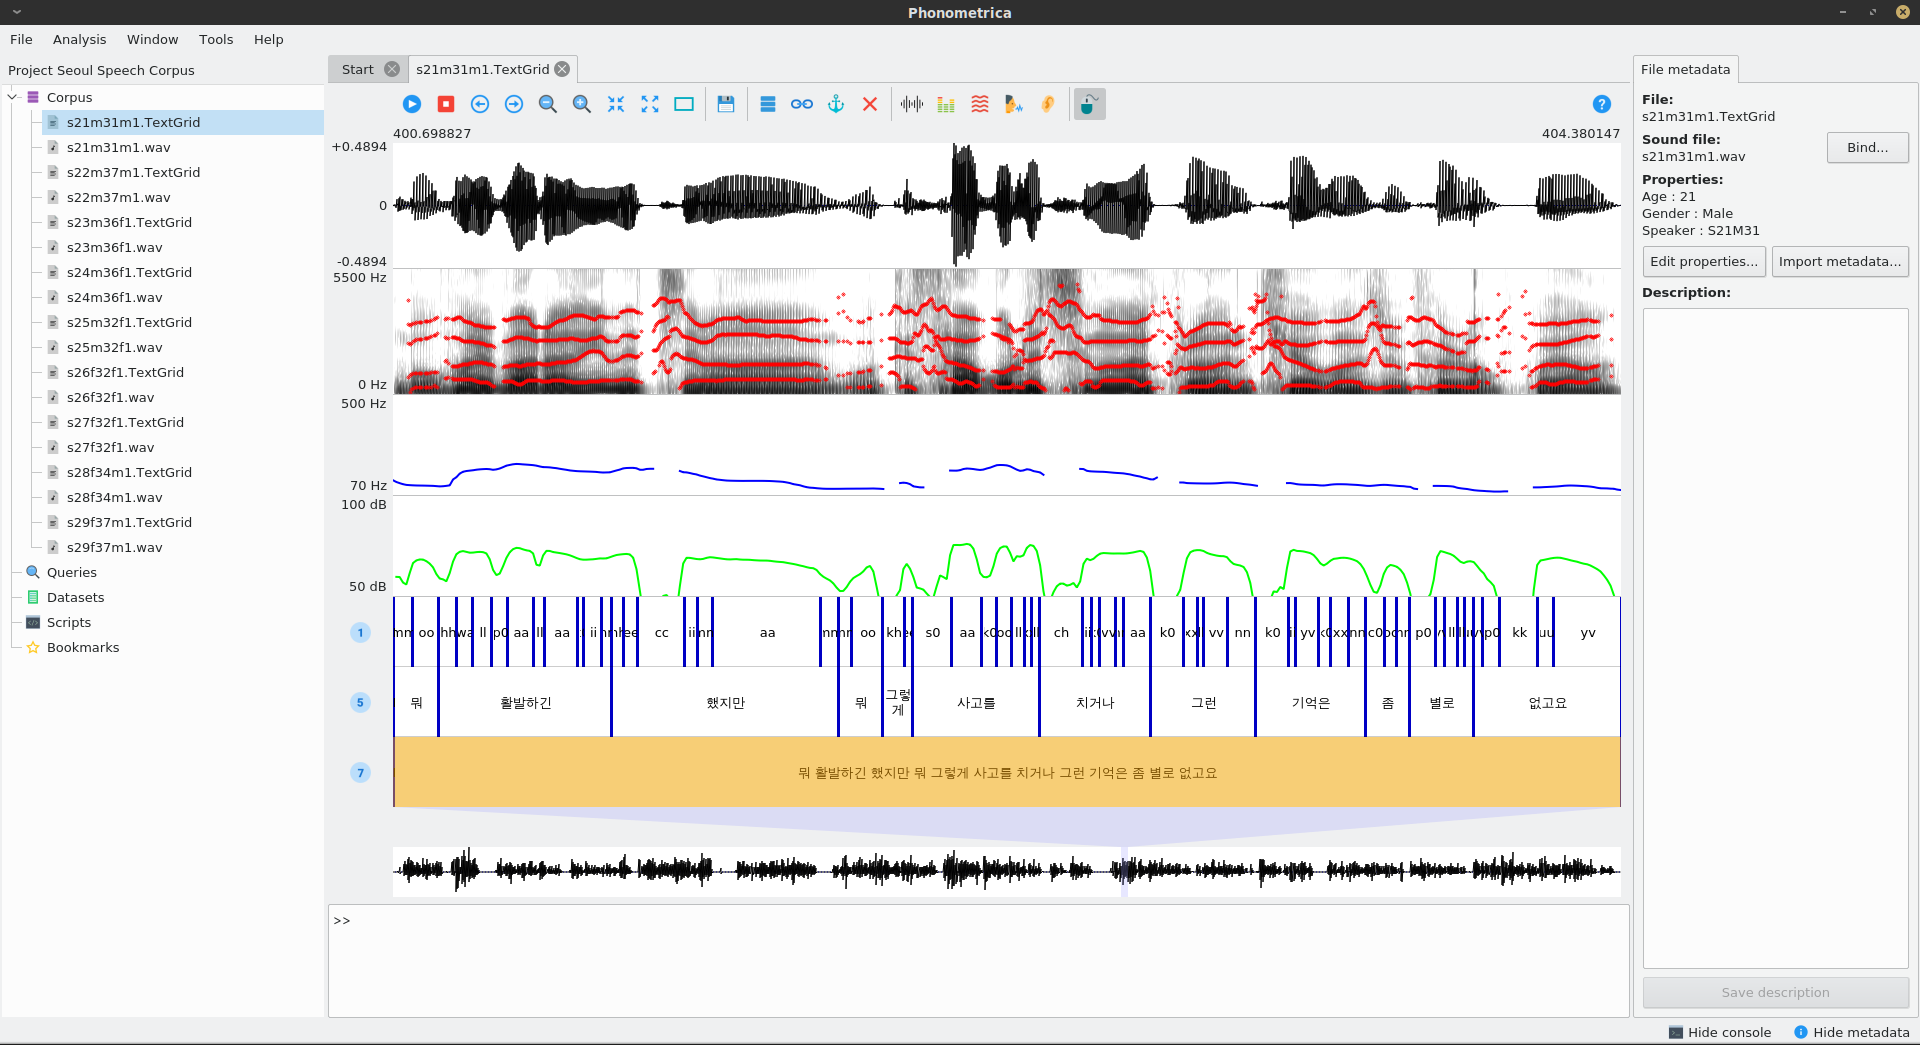
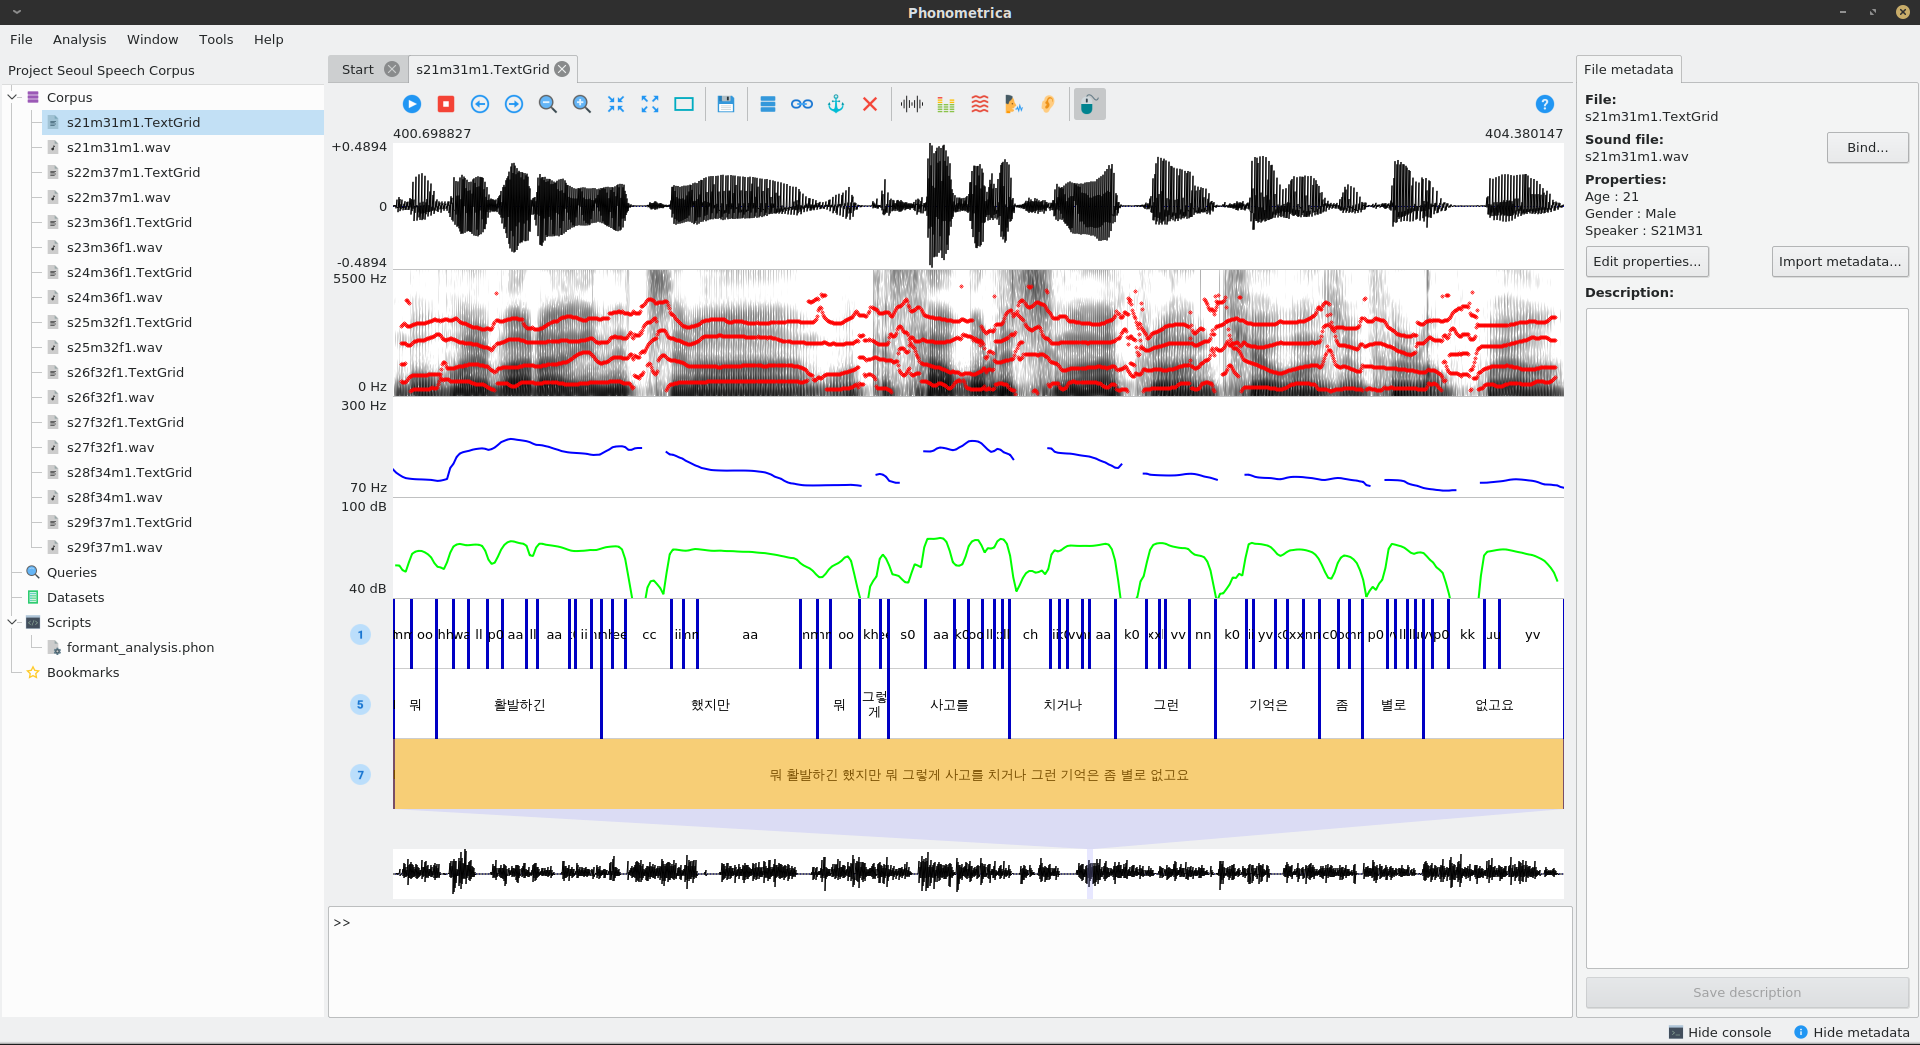
use Hann window for LPC analysis

diff --git a/html/index.html b/html/index.html
@@ -8,7 +8,7 @@
   <head>
     <meta http-equiv="X-UA-Compatible" content="IE=Edge" />
     <meta http-equiv="Content-Type" content="text/html; charset=utf-8" />
-    <title>Phonometrica &#8212; Phonometrica 0.6.0 documentation</title>
+    <title>Phonometrica &#8212; Phonometrica 0.6.1 documentation</title>
     <link rel="stylesheet" href="_static/yeen.css" type="text/css" />
     <link rel="stylesheet" href="_static/pygments.css" type="text/css" />
     <script type="text/javascript" id="documentation_options" data-url_root="./" src="_static/documentation_options.js"></script>
@@ -30,7 +30,7 @@
         <li class="right" >
           <a href="intro/install.html" title="Installation"
              accesskey="N">next</a> |</li>
-        <li class="nav-item nav-item-0"><a href="#">Phonometrica 0.6.0 documentation</a> &#187;</li> 
+        <li class="nav-item nav-item-0"><a href="#">Phonometrica 0.6.1 documentation</a> &#187;</li> 
       </ul>
     </div>
       <div class="sphinxsidebar" role="navigation" aria-label="main navigation">
@@ -139,7 +139,7 @@ The latest version can be downloaded from <a class="reference external" href="ht
 <table class="docutils citation" frame="void" id="eyc2019" rules="none">
 <colgroup><col class="label" /><col /></colgroup>
 <tbody valign="top">
-<tr><td class="label"><a class="fn-backref" href="#id1">[EYC2019]</a></td><td>Eychenne, Julien &amp; Léa Courdès-Murphy (2019). Phonometrica: an open platform for speech annotation and analysis [Computer program]. Version 0.6.0, retrieved 27 October 2019 from <a class="reference external" href="http://www.phonometrica-ling.org">http://www.phonometrica-ling.org</a></td></tr>
+<tr><td class="label"><a class="fn-backref" href="#id1">[EYC2019]</a></td><td>Eychenne, Julien &amp; Léa Courdès-Murphy (2019). Phonometrica: an open platform for speech annotation and analysis [Computer program]. Version 0.6.1, retrieved 27 October 2019 from <a class="reference external" href="http://www.phonometrica-ling.org">http://www.phonometrica-ling.org</a></td></tr>
 </tbody>
 </table>
 </div>
@@ -160,7 +160,7 @@ The latest version can be downloaded from <a class="reference external" href="ht
         <li class="right" >
           <a href="intro/install.html" title="Installation"
              >next</a> |</li>
-        <li class="nav-item nav-item-0"><a href="#">Phonometrica 0.6.0 documentation</a> &#187;</li> 
+        <li class="nav-item nav-item-0"><a href="#">Phonometrica 0.6.1 documentation</a> &#187;</li> 
       </ul>
     </div>
     

diff --git a/html/scripting/tutorial/metaobject.html b/html/scripting/tutorial/metaobject.html
@@ -8,7 +8,7 @@
   <head>
     <meta http-equiv="X-UA-Compatible" content="IE=Edge" />
     <meta http-equiv="Content-Type" content="text/html; charset=utf-8" />
-    <title>Meta-objects and inheritance &#8212; Phonometrica 0.6.0 documentation</title>
+    <title>Meta-objects and inheritance &#8212; Phonometrica 0.6.1 documentation</title>
     <link rel="stylesheet" href="../../_static/yeen.css" type="text/css" />
     <link rel="stylesheet" href="../../_static/pygments.css" type="text/css" />
     <script type="text/javascript" id="documentation_options" data-url_root="../../" src="../../_static/documentation_options.js"></script>
@@ -34,7 +34,7 @@
         <li class="right" >
           <a href="getting_started.html" title="Getting started"
              accesskey="P">previous</a> |</li>
-        <li class="nav-item nav-item-0"><a href="../../index.html">Phonometrica 0.6.0 documentation</a> &#187;</li>
+        <li class="nav-item nav-item-0"><a href="../../index.html">Phonometrica 0.6.1 documentation</a> &#187;</li>
           <li class="nav-item nav-item-1"><a href="../index.html" accesskey="U">Scripting</a> &#187;</li> 
       </ul>
     </div>
@@ -91,7 +91,7 @@ shared by a set of objects of the same type.</p>
         <li class="right" >
           <a href="getting_started.html" title="Getting started"
              >previous</a> |</li>
-        <li class="nav-item nav-item-0"><a href="../../index.html">Phonometrica 0.6.0 documentation</a> &#187;</li>
+        <li class="nav-item nav-item-0"><a href="../../index.html">Phonometrica 0.6.1 documentation</a> &#187;</li>
           <li class="nav-item nav-item-1"><a href="../index.html" >Scripting</a> &#187;</li> 
       </ul>
     </div>

diff --git a/html/scripting/tutorial/advanced.html b/html/scripting/tutorial/advanced.html
@@ -8,7 +8,7 @@
   <head>
     <meta http-equiv="X-UA-Compatible" content="IE=Edge" />
     <meta http-equiv="Content-Type" content="text/html; charset=utf-8" />
-    <title>Advanced notions &#8212; Phonometrica 0.6.0 documentation</title>
+    <title>Advanced notions &#8212; Phonometrica 0.6.1 documentation</title>
     <link rel="stylesheet" href="../../_static/yeen.css" type="text/css" />
     <link rel="stylesheet" href="../../_static/pygments.css" type="text/css" />
     <script type="text/javascript" id="documentation_options" data-url_root="../../" src="../../_static/documentation_options.js"></script>
@@ -34,7 +34,7 @@
         <li class="right" >
           <a href="user_dialogs.html" title="User dialogs"
              accesskey="P">previous</a> |</li>
-        <li class="nav-item nav-item-0"><a href="../../index.html">Phonometrica 0.6.0 documentation</a> &#187;</li>
+        <li class="nav-item nav-item-0"><a href="../../index.html">Phonometrica 0.6.1 documentation</a> &#187;</li>
           <li class="nav-item nav-item-1"><a href="../index.html" accesskey="U">Scripting</a> &#187;</li> 
       </ul>
     </div>
@@ -156,7 +156,7 @@ value of <code class="docutils literal notranslate"><span class="pre">c</span></
         <li class="right" >
           <a href="user_dialogs.html" title="User dialogs"
              >previous</a> |</li>
-        <li class="nav-item nav-item-0"><a href="../../index.html">Phonometrica 0.6.0 documentation</a> &#187;</li>
+        <li class="nav-item nav-item-0"><a href="../../index.html">Phonometrica 0.6.1 documentation</a> &#187;</li>
           <li class="nav-item nav-item-1"><a href="../index.html" >Scripting</a> &#187;</li> 
       </ul>
     </div>

diff --git a/html/scripting/api/array.html b/html/scripting/api/array.html
@@ -8,7 +8,7 @@
   <head>
     <meta http-equiv="X-UA-Compatible" content="IE=Edge" />
     <meta http-equiv="Content-Type" content="text/html; charset=utf-8" />
-    <title>Numeric arrays &#8212; Phonometrica 0.6.0 documentation</title>
+    <title>Numeric arrays &#8212; Phonometrica 0.6.1 documentation</title>
     <link rel="stylesheet" href="../../_static/yeen.css" type="text/css" />
     <link rel="stylesheet" href="../../_static/pygments.css" type="text/css" />
     <script type="text/javascript" id="documentation_options" data-url_root="../../" src="../../_static/documentation_options.js"></script>
@@ -34,7 +34,7 @@
         <li class="right" >
           <a href="annotation.html" title="Annotations"
              accesskey="P">previous</a> |</li>
-        <li class="nav-item nav-item-0"><a href="../../index.html">Phonometrica 0.6.0 documentation</a> &#187;</li>
+        <li class="nav-item nav-item-0"><a href="../../index.html">Phonometrica 0.6.1 documentation</a> &#187;</li>
           <li class="nav-item nav-item-1"><a href="../index.html" accesskey="U">Scripting</a> &#187;</li> 
       </ul>
     </div>
@@ -148,7 +148,7 @@ where <em>i</em> represents the <em>i*th row and *j</em> represents the <em>j*th
         <li class="right" >
           <a href="annotation.html" title="Annotations"
              >previous</a> |</li>
-        <li class="nav-item nav-item-0"><a href="../../index.html">Phonometrica 0.6.0 documentation</a> &#187;</li>
+        <li class="nav-item nav-item-0"><a href="../../index.html">Phonometrica 0.6.1 documentation</a> &#187;</li>
           <li class="nav-item nav-item-1"><a href="../index.html" >Scripting</a> &#187;</li> 
       </ul>
     </div>

diff --git a/html/scripting/tutorial/getting_started.html b/html/scripting/tutorial/getting_started.html
@@ -8,7 +8,7 @@
   <head>
     <meta http-equiv="X-UA-Compatible" content="IE=Edge" />
     <meta http-equiv="Content-Type" content="text/html; charset=utf-8" />
-    <title>Getting started &#8212; Phonometrica 0.6.0 documentation</title>
+    <title>Getting started &#8212; Phonometrica 0.6.1 documentation</title>
     <link rel="stylesheet" href="../../_static/yeen.css" type="text/css" />
     <link rel="stylesheet" href="../../_static/pygments.css" type="text/css" />
     <script type="text/javascript" id="documentation_options" data-url_root="../../" src="../../_static/documentation_options.js"></script>
@@ -34,7 +34,7 @@
         <li class="right" >
           <a href="../index.html" title="Scripting"
              accesskey="P">previous</a> |</li>
-        <li class="nav-item nav-item-0"><a href="../../index.html">Phonometrica 0.6.0 documentation</a> &#187;</li>
+        <li class="nav-item nav-item-0"><a href="../../index.html">Phonometrica 0.6.1 documentation</a> &#187;</li>
           <li class="nav-item nav-item-1"><a href="../index.html" accesskey="U">Scripting</a> &#187;</li> 
       </ul>
     </div>
@@ -395,7 +395,7 @@ an optional error message. It will trigger an error with the error message if th
         <li class="right" >
           <a href="../index.html" title="Scripting"
              >previous</a> |</li>
-        <li class="nav-item nav-item-0"><a href="../../index.html">Phonometrica 0.6.0 documentation</a> &#187;</li>
+        <li class="nav-item nav-item-0"><a href="../../index.html">Phonometrica 0.6.1 documentation</a> &#187;</li>
           <li class="nav-item nav-item-1"><a href="../index.html" >Scripting</a> &#187;</li> 
       </ul>
     </div>

diff --git a/html/scripting/tutorial/user_dialogs.html b/html/scripting/tutorial/user_dialogs.html
@@ -8,7 +8,7 @@
   <head>
     <meta http-equiv="X-UA-Compatible" content="IE=Edge" />
     <meta http-equiv="Content-Type" content="text/html; charset=utf-8" />
-    <title>User dialogs &#8212; Phonometrica 0.6.0 documentation</title>
+    <title>User dialogs &#8212; Phonometrica 0.6.1 documentation</title>
     <link rel="stylesheet" href="../../_static/yeen.css" type="text/css" />
     <link rel="stylesheet" href="../../_static/pygments.css" type="text/css" />
     <script type="text/javascript" id="documentation_options" data-url_root="../../" src="../../_static/documentation_options.js"></script>
@@ -34,7 +34,7 @@
         <li class="right" >
           <a href="metaobject.html" title="Meta-objects and inheritance"
              accesskey="P">previous</a> |</li>
-        <li class="nav-item nav-item-0"><a href="../../index.html">Phonometrica 0.6.0 documentation</a> &#187;</li>
+        <li class="nav-item nav-item-0"><a href="../../index.html">Phonometrica 0.6.1 documentation</a> &#187;</li>
           <li class="nav-item nav-item-1"><a href="../index.html" accesskey="U">Scripting</a> &#187;</li> 
       </ul>
     </div>
@@ -387,7 +387,7 @@ contain any space.</p>
         <li class="right" >
           <a href="metaobject.html" title="Meta-objects and inheritance"
              >previous</a> |</li>
-        <li class="nav-item nav-item-0"><a href="../../index.html">Phonometrica 0.6.0 documentation</a> &#187;</li>
+        <li class="nav-item nav-item-0"><a href="../../index.html">Phonometrica 0.6.1 documentation</a> &#187;</li>
           <li class="nav-item nav-item-1"><a href="../index.html" >Scripting</a> &#187;</li> 
       </ul>
     </div>

diff --git a/html/scripting/api/annotation.html b/html/scripting/api/annotation.html
@@ -8,7 +8,7 @@
   <head>
     <meta http-equiv="X-UA-Compatible" content="IE=Edge" />
     <meta http-equiv="Content-Type" content="text/html; charset=utf-8" />
-    <title>Annotations &#8212; Phonometrica 0.6.0 documentation</title>
+    <title>Annotations &#8212; Phonometrica 0.6.1 documentation</title>
     <link rel="stylesheet" href="../../_static/yeen.css" type="text/css" />
     <link rel="stylesheet" href="../../_static/pygments.css" type="text/css" />
     <script type="text/javascript" id="documentation_options" data-url_root="../../" src="../../_static/documentation_options.js"></script>
@@ -34,7 +34,7 @@
         <li class="right" >
           <a href="../tutorial/advanced.html" title="Advanced notions"
              accesskey="P">previous</a> |</li>
-        <li class="nav-item nav-item-0"><a href="../../index.html">Phonometrica 0.6.0 documentation</a> &#187;</li>
+        <li class="nav-item nav-item-0"><a href="../../index.html">Phonometrica 0.6.1 documentation</a> &#187;</li>
           <li class="nav-item nav-item-1"><a href="../index.html" accesskey="U">Scripting</a> &#187;</li> 
       </ul>
     </div>
@@ -236,7 +236,7 @@ its start time.</p>
         <li class="right" >
           <a href="../tutorial/advanced.html" title="Advanced notions"
              >previous</a> |</li>
-        <li class="nav-item nav-item-0"><a href="../../index.html">Phonometrica 0.6.0 documentation</a> &#187;</li>
+        <li class="nav-item nav-item-0"><a href="../../index.html">Phonometrica 0.6.1 documentation</a> &#187;</li>
           <li class="nav-item nav-item-1"><a href="../index.html" >Scripting</a> &#187;</li> 
       </ul>
     </div>

diff --git a/html/scripting/api/file.html b/html/scripting/api/file.html
@@ -8,7 +8,7 @@
   <head>
     <meta http-equiv="X-UA-Compatible" content="IE=Edge" />
     <meta http-equiv="Content-Type" content="text/html; charset=utf-8" />
-    <title>File manipulation &#8212; Phonometrica 0.6.0 documentation</title>
+    <title>File manipulation &#8212; Phonometrica 0.6.1 documentation</title>
     <link rel="stylesheet" href="../../_static/yeen.css" type="text/css" />
     <link rel="stylesheet" href="../../_static/pygments.css" type="text/css" />
     <script type="text/javascript" id="documentation_options" data-url_root="../../" src="../../_static/documentation_options.js"></script>
@@ -34,7 +34,7 @@
         <li class="right" >
           <a href="event.html" title="Event handling"
              accesskey="P">previous</a> |</li>
-        <li class="nav-item nav-item-0"><a href="../../index.html">Phonometrica 0.6.0 documentation</a> &#187;</li>
+        <li class="nav-item nav-item-0"><a href="../../index.html">Phonometrica 0.6.1 documentation</a> &#187;</li>
           <li class="nav-item nav-item-1"><a href="../index.html" accesskey="U">Scripting</a> &#187;</li> 
       </ul>
     </div>
@@ -215,7 +215,7 @@ must be one of the following strings:</p>
         <li class="right" >
           <a href="event.html" title="Event handling"
              >previous</a> |</li>
-        <li class="nav-item nav-item-0"><a href="../../index.html">Phonometrica 0.6.0 documentation</a> &#187;</li>
+        <li class="nav-item nav-item-0"><a href="../../index.html">Phonometrica 0.6.1 documentation</a> &#187;</li>
           <li class="nav-item nav-item-1"><a href="../index.html" >Scripting</a> &#187;</li> 
       </ul>
     </div>

diff --git a/html/scripting/api/system.html b/html/scripting/api/system.html
@@ -8,7 +8,7 @@
   <head>
     <meta http-equiv="X-UA-Compatible" content="IE=Edge" />
     <meta http-equiv="Content-Type" content="text/html; charset=utf-8" />
-    <title>Operating System &#8212; Phonometrica 0.6.0 documentation</title>
+    <title>Operating System &#8212; Phonometrica 0.6.1 documentation</title>
     <link rel="stylesheet" href="../../_static/yeen.css" type="text/css" />
     <link rel="stylesheet" href="../../_static/pygments.css" type="text/css" />
     <script type="text/javascript" id="documentation_options" data-url_root="../../" src="../../_static/documentation_options.js"></script>
@@ -34,7 +34,7 @@
         <li class="right" >
           <a href="string.html" title="String processing"
              accesskey="P">previous</a> |</li>
-        <li class="nav-item nav-item-0"><a href="../../index.html">Phonometrica 0.6.0 documentation</a> &#187;</li>
+        <li class="nav-item nav-item-0"><a href="../../index.html">Phonometrica 0.6.1 documentation</a> &#187;</li>
           <li class="nav-item nav-item-1"><a href="../index.html" accesskey="U">Scripting</a> &#187;</li> 
       </ul>
     </div>
@@ -281,7 +281,7 @@ hidden files are not included.</p>
         <li class="right" >
           <a href="string.html" title="String processing"
              >previous</a> |</li>
-        <li class="nav-item nav-item-0"><a href="../../index.html">Phonometrica 0.6.0 documentation</a> &#187;</li>
+        <li class="nav-item nav-item-0"><a href="../../index.html">Phonometrica 0.6.1 documentation</a> &#187;</li>
           <li class="nav-item nav-item-1"><a href="../index.html" >Scripting</a> &#187;</li> 
       </ul>
     </div>

diff --git a/html/scripting/api/string.html b/html/scripting/api/string.html
@@ -8,7 +8,7 @@
   <head>
     <meta http-equiv="X-UA-Compatible" content="IE=Edge" />
     <meta http-equiv="Content-Type" content="text/html; charset=utf-8" />
-    <title>String processing &#8212; Phonometrica 0.6.0 documentation</title>
+    <title>String processing &#8212; Phonometrica 0.6.1 documentation</title>
     <link rel="stylesheet" href="../../_static/yeen.css" type="text/css" />
     <link rel="stylesheet" href="../../_static/pygments.css" type="text/css" />
     <script type="text/javascript" id="documentation_options" data-url_root="../../" src="../../_static/documentation_options.js"></script>
@@ -34,7 +34,7 @@
         <li class="right" >
           <a href="sound.html" title="Sounds"
              accesskey="P">previous</a> |</li>
-        <li class="nav-item nav-item-0"><a href="../../index.html">Phonometrica 0.6.0 documentation</a> &#187;</li>
+        <li class="nav-item nav-item-0"><a href="../../index.html">Phonometrica 0.6.1 documentation</a> &#187;</li>
           <li class="nav-item nav-item-1"><a href="../index.html" accesskey="U">Scripting</a> &#187;</li> 
       </ul>
     </div>
@@ -401,7 +401,7 @@ list of the characters in the string.</p>
         <li class="right" >
           <a href="sound.html" title="Sounds"
              >previous</a> |</li>
-        <li class="nav-item nav-item-0"><a href="../../index.html">Phonometrica 0.6.0 documentation</a> &#187;</li>
+        <li class="nav-item nav-item-0"><a href="../../index.html">Phonometrica 0.6.1 documentation</a> &#187;</li>
           <li class="nav-item nav-item-1"><a href="../index.html" >Scripting</a> &#187;</li> 
       </ul>
     </div>

diff --git a/html/scripting/api/event.html b/html/scripting/api/event.html
@@ -8,7 +8,7 @@
   <head>
     <meta http-equiv="X-UA-Compatible" content="IE=Edge" />
     <meta http-equiv="Content-Type" content="text/html; charset=utf-8" />
-    <title>Event handling &#8212; Phonometrica 0.6.0 documentation</title>
+    <title>Event handling &#8212; Phonometrica 0.6.1 documentation</title>
     <link rel="stylesheet" href="../../_static/yeen.css" type="text/css" />
     <link rel="stylesheet" href="../../_static/pygments.css" type="text/css" />
     <script type="text/javascript" id="documentation_options" data-url_root="../../" src="../../_static/documentation_options.js"></script>
@@ -34,7 +34,7 @@
         <li class="right" >
           <a href="array.html" title="Numeric arrays"
              accesskey="P">previous</a> |</li>
-        <li class="nav-item nav-item-0"><a href="../../index.html">Phonometrica 0.6.0 documentation</a> &#187;</li>
+        <li class="nav-item nav-item-0"><a href="../../index.html">Phonometrica 0.6.1 documentation</a> &#187;</li>
           <li class="nav-item nav-item-1"><a href="../index.html" accesskey="U">Scripting</a> &#187;</li> 
       </ul>
     </div>
@@ -208,7 +208,7 @@ should not be relied upon.</p>
         <li class="right" >
           <a href="array.html" title="Numeric arrays"
              >previous</a> |</li>
-        <li class="nav-item nav-item-0"><a href="../../index.html">Phonometrica 0.6.0 documentation</a> &#187;</li>
+        <li class="nav-item nav-item-0"><a href="../../index.html">Phonometrica 0.6.1 documentation</a> &#187;</li>
           <li class="nav-item nav-item-1"><a href="../index.html" >Scripting</a> &#187;</li> 
       </ul>
     </div>

diff --git a/html/scripting/api/json.html b/html/scripting/api/json.html
@@ -8,7 +8,7 @@
   <head>
     <meta http-equiv="X-UA-Compatible" content="IE=Edge" />
     <meta http-equiv="Content-Type" content="text/html; charset=utf-8" />
-    <title>JSON &#8212; Phonometrica 0.6.0 documentation</title>
+    <title>JSON &#8212; Phonometrica 0.6.1 documentation</title>
     <link rel="stylesheet" href="../../_static/yeen.css" type="text/css" />
     <link rel="stylesheet" href="../../_static/pygments.css" type="text/css" />
     <script type="text/javascript" id="documentation_options" data-url_root="../../" src="../../_static/documentation_options.js"></script>
@@ -34,7 +34,7 @@
         <li class="right" >
           <a href="file.html" title="File manipulation"
              accesskey="P">previous</a> |</li>
-        <li class="nav-item nav-item-0"><a href="../../index.html">Phonometrica 0.6.0 documentation</a> &#187;</li>
+        <li class="nav-item nav-item-0"><a href="../../index.html">Phonometrica 0.6.1 documentation</a> &#187;</li>
           <li class="nav-item nav-item-1"><a href="../index.html" accesskey="U">Scripting</a> &#187;</li> 
       </ul>
     </div>
@@ -132,7 +132,7 @@ print(&quot;The value of pi is &quot; + o.pi)
         <li class="right" >
           <a href="file.html" title="File manipulation"
              >previous</a> |</li>
-        <li class="nav-item nav-item-0"><a href="../../index.html">Phonometrica 0.6.0 documentation</a> &#187;</li>
+        <li class="nav-item nav-item-0"><a href="../../index.html">Phonometrica 0.6.1 documentation</a> &#187;</li>
           <li class="nav-item nav-item-1"><a href="../index.html" >Scripting</a> &#187;</li> 
       </ul>
     </div>
